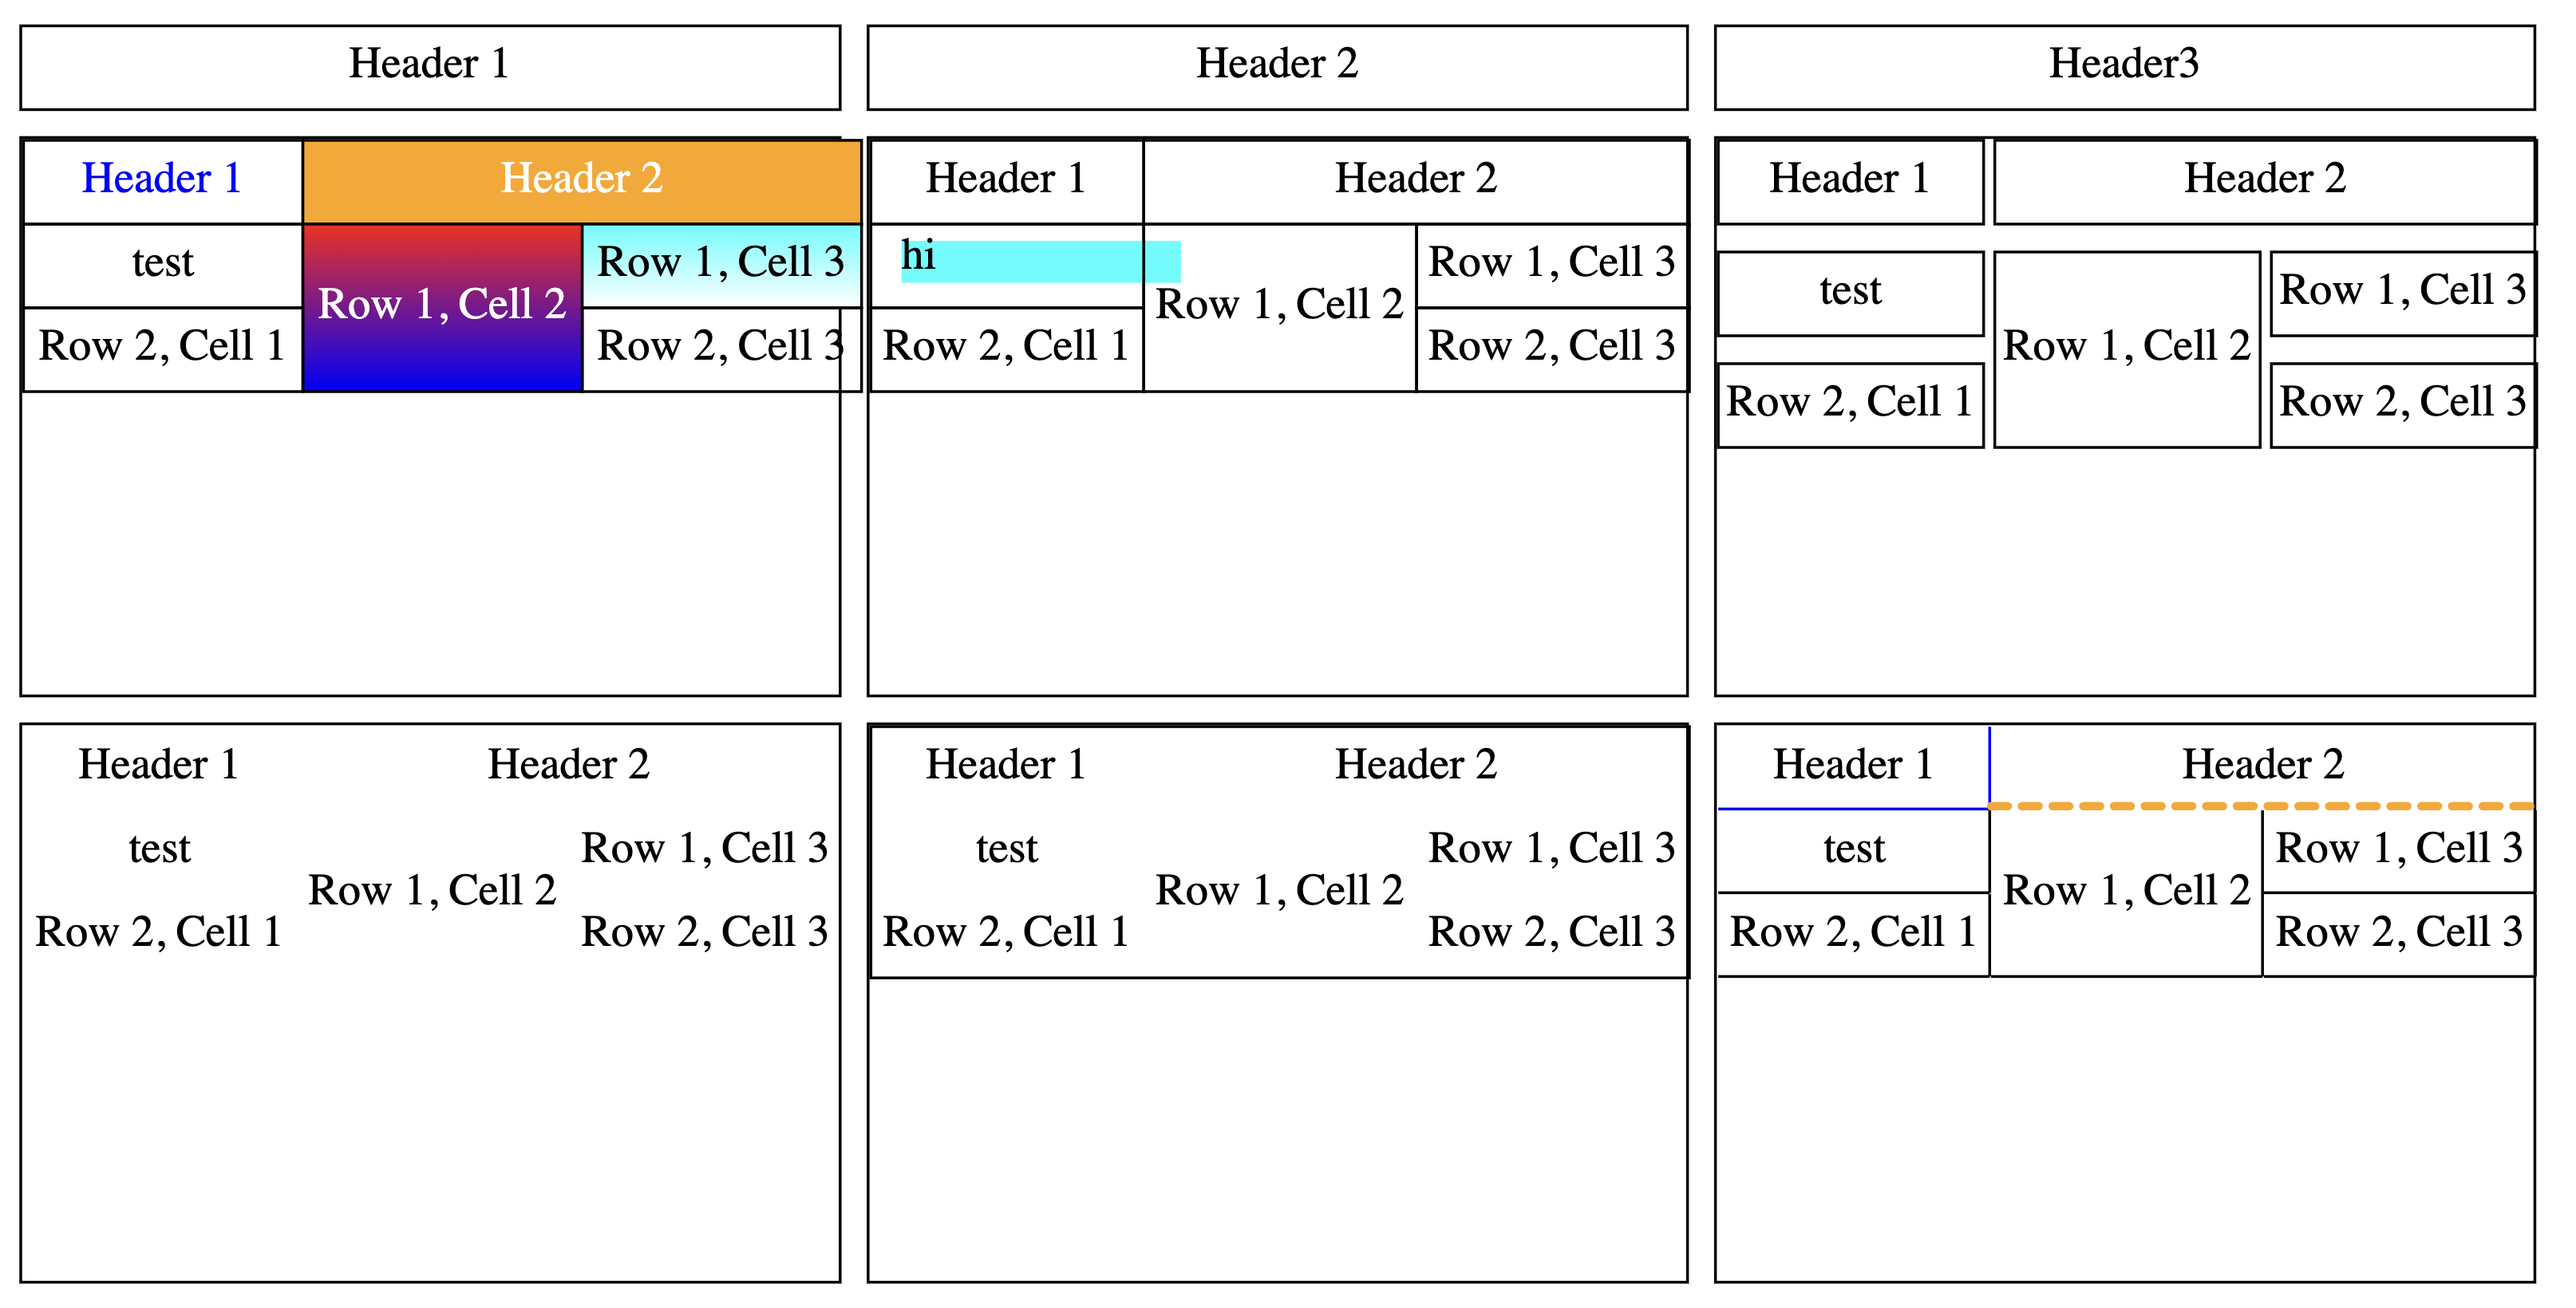
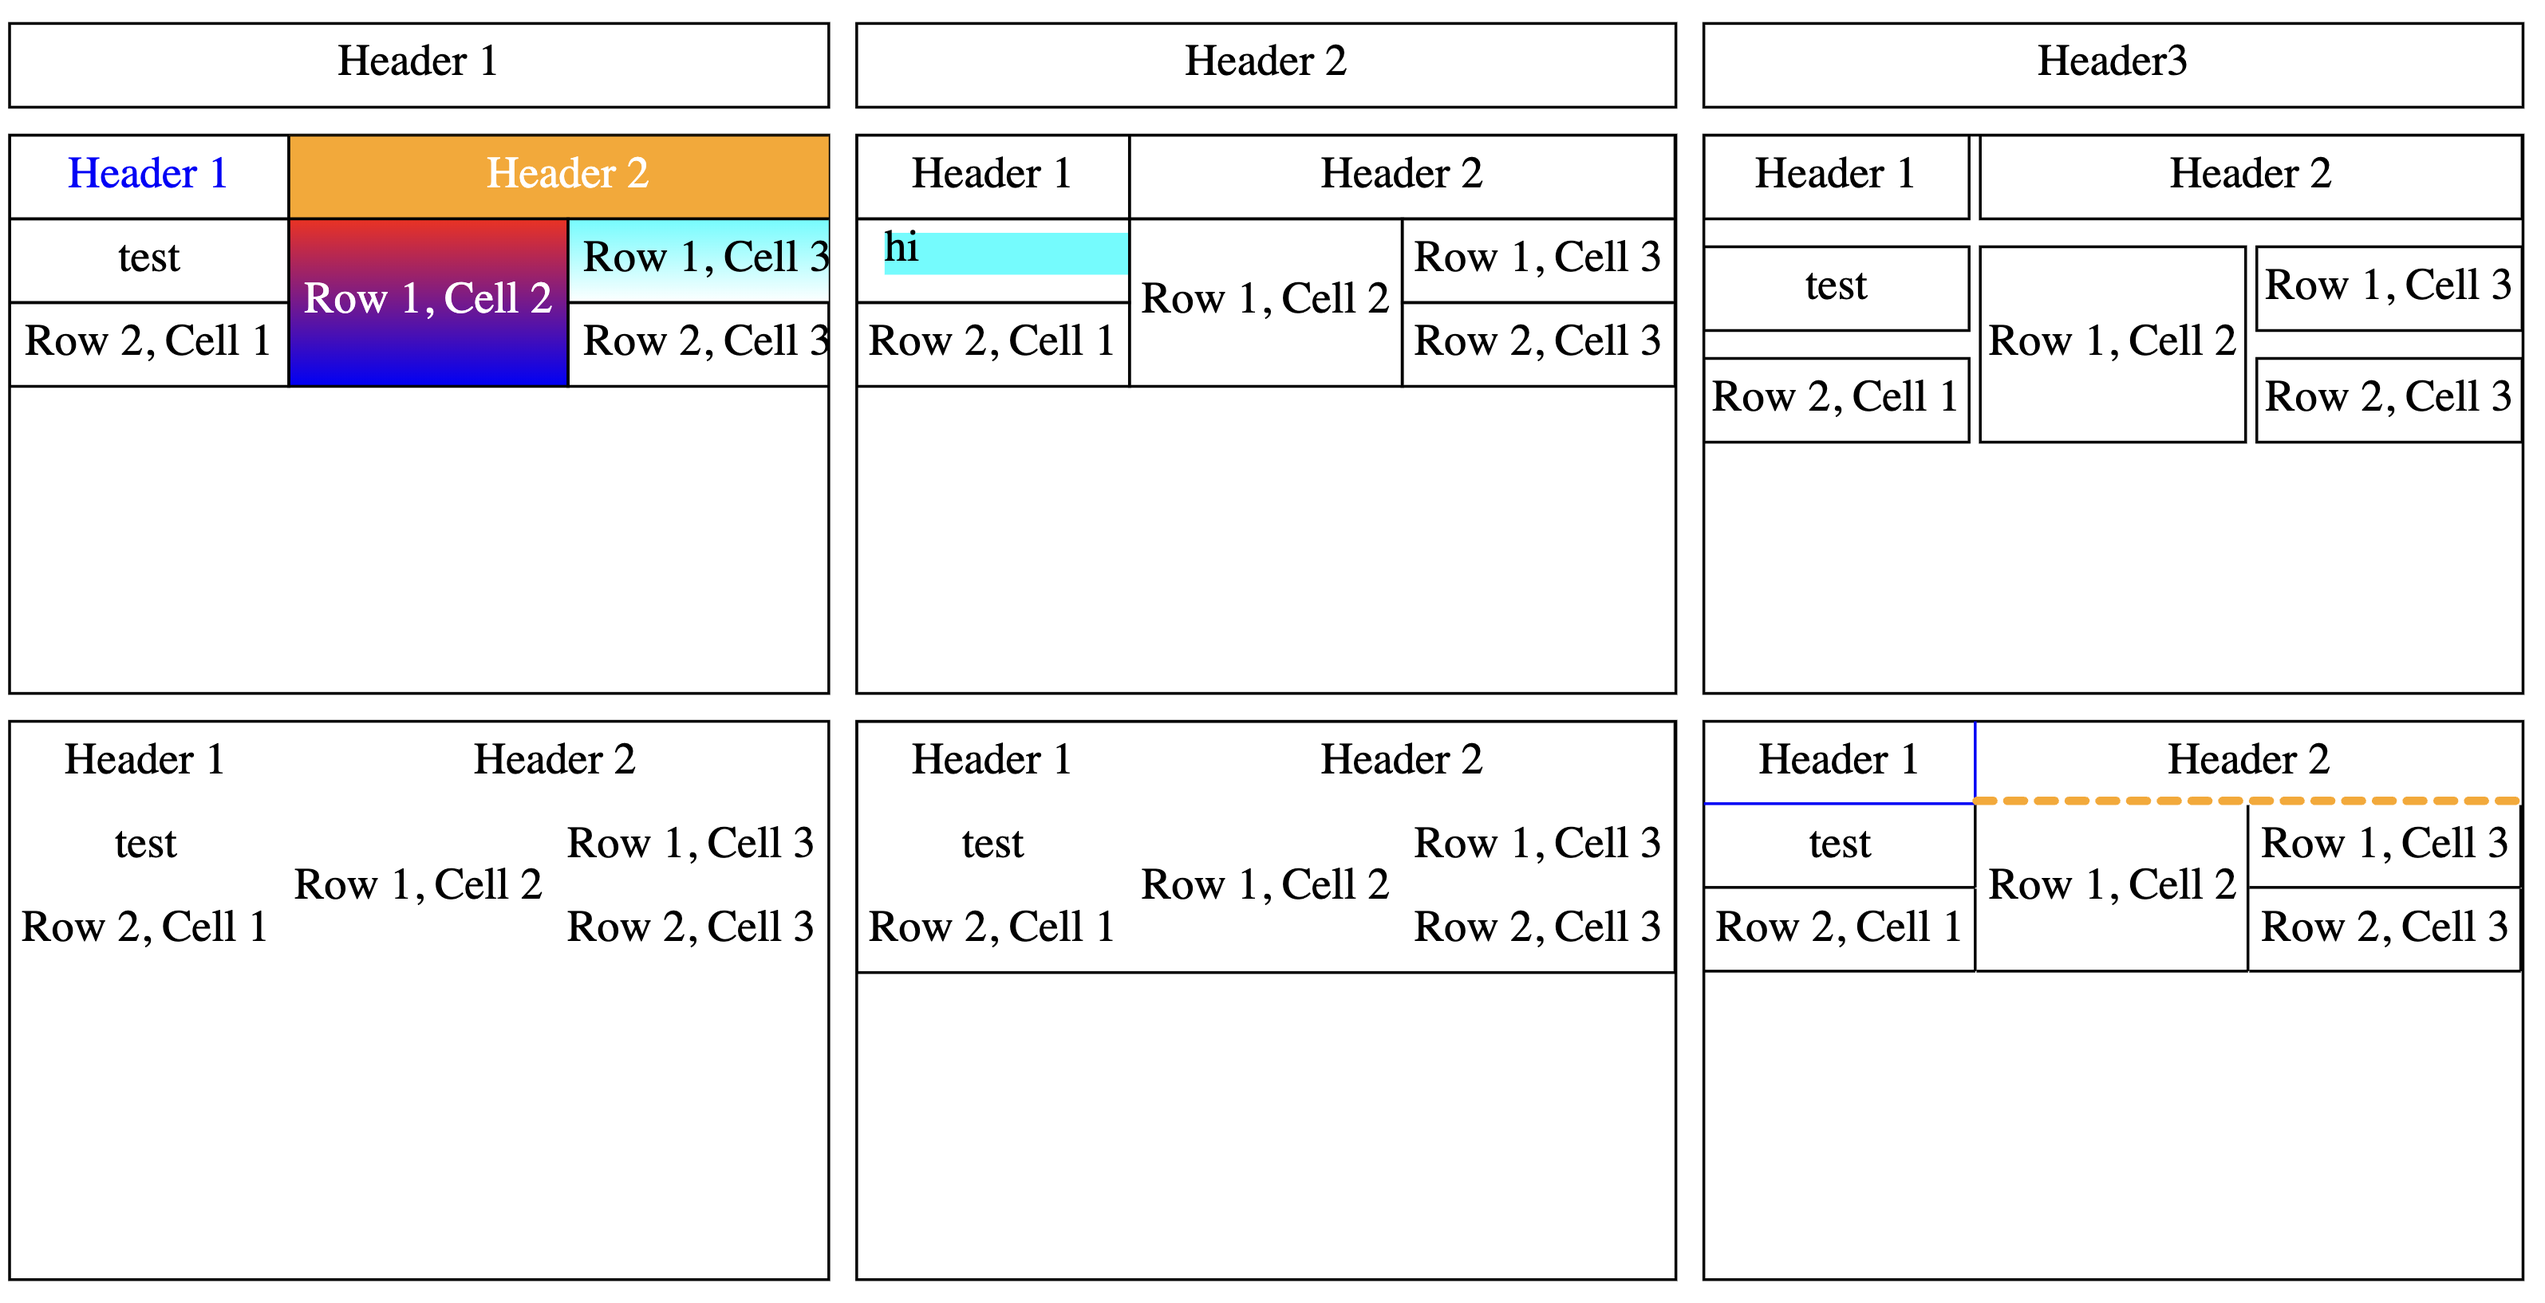
add more demo

diff --git a/packages/svg-table/src/ACell.tsx b/packages/svg-table/src/ACell.tsx
@@ -27,6 +27,7 @@ export const ACell = memo(
 			borderPatterns,
 			borderShapes,
 			paddings,
+			svgStyle,
 			textColor,
 			textStyle,
 		} = styleToUse;
@@ -36,7 +37,12 @@ export const ACell = memo(
 		const padBottom = getWid(paddings, 'bottom');
 
 		return (
-			<g transform={`translate(${x}, ${y})`} className='cell-wrapper'>
+			<g
+				transform={`translate(${x}, ${y})`}
+				className='cell-wrapper'
+				width={width}
+				height={height}
+			>
 				<FilledArea
 					width={width}
 					height={height}
@@ -46,23 +52,25 @@ export const ACell = memo(
 					borderPatterns={borderPatterns}
 					borderShapes={borderShapes}
 				/>
-				<g transform={`translate(${padLeft}, ${padTop})`}>
-					{typeof content === 'string' && (
+				<svg width={width} height={height} style={svgStyle}>
+					<g transform={`translate(${padLeft}, ${padTop})`}>
 						<g transform={`translate(-${padRight}, -${padBottom})`}>
-							<text
-								x={width / 2}
-								y={height / 2}
-								textAnchor='middle'
-								dominantBaseline='middle'
-								fill={textColor}
-								{...textStyle}
-							>
-								{content}
-							</text>
+							{typeof content === 'string' && (
+								<text
+									x={width / 2}
+									y={height / 2}
+									textAnchor='middle'
+									dominantBaseline='middle'
+									fill={textColor}
+									{...textStyle}
+								>
+									{content}
+								</text>
+							)}
+							{typeof content !== 'string' && content}
 						</g>
-					)}
-					{typeof content !== 'string' && content}
-				</g>
+					</g>
+				</svg>
 			</g>
 		);
 	}

diff --git a/apps/svg-table-demo/src/TableStyles.tsx b/apps/svg-table-demo/src/TableStyles.tsx
@@ -1,6 +1,6 @@
 import SVGTable, { TableProps } from 'svg-table';
 
-const Rect = () => {
+const Circle = () => {
 	return <ellipse cx={15} cy={15} rx={30} ry={30} fill='cyan' />;
 };
 
@@ -13,16 +13,9 @@ const TableStyles = ({ width = 500 }: { width?: number }) => {
 			bgColor: 'yellow',
 			height: 50,
 		},
-		defaultCellStyle: {
-			textColor: '#ff0000',
-			textStyle: {
-				textAnchor: 'start',
-				dominantBaseline: 'hanging',
-				x: 0,
-				y: 0,
-			},
-		},
+
 		style: {
+			// table's border customizations
 			rowGaps: 10,
 			colGaps: 10,
 			margins: [10, 10, 10, 10],
@@ -41,33 +34,13 @@ const TableStyles = ({ width = 500 }: { width?: number }) => {
 			{
 				cells: [
 					{
-						content: 'Header 1',
+						content: <Circle />,
 						style: {
-							bgColor: '#f0f0f0',
-							paddings: [10, 4, 0, 0],
-							textColor: 'blue',
+							svgStyle: {
+								overflow: 'visible', // override internal svg's style
+							},
 						},
 					},
-					{
-						content: 'Header 2',
-						colSpan: 2,
-						style: {
-							bgColor: '#cccccc',
-							borderColors: ['red', 'green', 'blue', 'purple'],
-							borderPatterns: [
-								[4, 0.1],
-								[2, 0.1],
-								[0.1, 3],
-								[0.1, 3],
-							],
-							borderShapes: ['butt', 'butt', 'round', 'square'],
-						},
-					},
-				],
-			},
-			{
-				cells: [
-					{ content: <Rect /> },
 					{ content: 'Row 1, Cell 2', rowSpan: 2 },
 					{ content: 'Row 1, Cell 3' },
 				],

diff --git a/packages/svg-table/src/calculateRows.ts b/packages/svg-table/src/calculateRows.ts
@@ -54,11 +54,11 @@ const getCellHeight = (
 
 const insertIgnoredCell = (row: CalculatedRowProps, colIndex: number) => {
 	row.cells = [
-		...row.cells.slice(0, colIndex),
+		...(row.cells.slice(0, colIndex) ?? []),
 		{
 			_ignored: true,
 		},
-		...row.cells.slice(colIndex),
+		...(row.cells.slice(colIndex) ?? []),
 	];
 };
 
@@ -124,10 +124,22 @@ export const calculateRows = (
 			if (cell.rowSpan) {
 				// find same index of the below rows and add an empty cell with _ignored: true attribute.
 				for (let i = 1; i < cell.rowSpan; i++) {
-					insertIgnoredCell(
-						calcRows[idx + i] as CalculatedRowProps,
-						idx
-					);
+					if (calcRows[ri + i]) {
+						insertIgnoredCell(
+							calcRows[ri + i] as CalculatedRowProps,
+							idx
+						);
+					} else {
+						console.error(
+							'row is not found at index: ' + (idx + i),
+							'your cell is:',
+							cell,
+							'your rows are',
+							calcRows,
+							'idx is',
+							idx
+						);
+					}
 				}
 			}
 			cell.width = cellWidth;

diff --git a/apps/svg-table-demo/src/main.tsx b/apps/svg-table-demo/src/main.tsx
@@ -2,7 +2,6 @@ import React from 'react';
 import ReactDOM from 'react-dom/client';
 import BasicDemo from './BasicDemo.tsx';
 import EmbeddedTable from './EmbeddedTable.tsx';
-import './main.css';
 import TextStyleOverride from './TextStyleOverride.tsx';
 import NoBorderTableDemo from './NoBorderTableDemo.tsx';
 import OnlyTableBolder from './OnlyTableBolder.tsx';
@@ -11,6 +10,7 @@ import TableBorderStyles from './TableBorderStyles.tsx';
 import BgColorAndTextColor from './BgColorAndTextColor.tsx';
 import Gaps from './Gaps.tsx';
 import TableStyles from './TableStyles.tsx';
+import './main.css';
 
 ReactDOM.createRoot(document.getElementById('root')!).render(
 	<React.StrictMode>

diff --git a/packages/svg-table/src/types.ts b/packages/svg-table/src/types.ts
@@ -1,4 +1,4 @@
-import { ReactNode, SVGAttributes } from 'react';
+import { HTMLAttributes, ReactNode, SVGAttributes } from 'react';
 
 export type Widths =
 	| [number, number] // top/bottom, left/right
@@ -40,6 +40,7 @@ export type CellStyle = {
 	paddings: Widths;
 	textColor: string;
 	textStyle?: TextStyle;
+	svgStyle?: HTMLAttributes<SVGSVGElement>['style'];
 } & Partial<BorderStyles>;
 
 export type CellProps = {
@@ -82,6 +83,7 @@ export type TableStyle = {
 	bgColor: string;
 	colGaps: number;
 	rowGaps: number;
+	svgStyle: HTMLAttributes<SVGSVGElement>['style'];
 } & Partial<BorderStyles>;
 
 export type TableProps = {

diff --git a/packages/svg-table/src/SVGTable.tsx b/packages/svg-table/src/SVGTable.tsx
@@ -28,8 +28,8 @@ const parsedTableStyle = (style?: Partial<TableStyle>): TableStyle => {
 		borderPatterns: undefined,
 		borderShapes: undefined,
 		borderColors: style?.borderWidths ? '#000' : undefined,
+		svgStyle: { overflow: 'visible' },
 		...style,
-		// borderColors: style?.borderColors ?? '#000',
 		margins: style?.margins ?? 0,
 	};
 };
@@ -139,7 +139,7 @@ export const SVGTable: React.FC<TableProps> = ({
 		<svg
 			width={width}
 			height={height}
-			style={{ overflow: 'visible' }}
+			style={tableStyle.svgStyle}
 			viewBox={`0 0 ${width} ${height}`}
 			className={`svg-table ${className ?? ''}`}
 		>

diff --git a/apps/svg-table-demo/README.md b/apps/svg-table-demo/README.md
@@ -578,3 +578,75 @@ export default TextStyleOverride;
 ```
 
 ![text style override](README.assets/text-style-override.png)
+
+## Play with styles even more
+
+you can set more advanced styles on your svg.
+
+```typescript
+import SVGTable, { TableProps } from 'svg-table';
+
+const Circle = () => {
+ return <ellipse cx={15} cy={15} rx={30} ry={30} fill='cyan' />;
+};
+
+const TableStyles = ({ width = 500 }: { width?: number }) => {
+ const tableProps: TableProps = {
+  columnWidths: [100, 300, 200],
+  width: width,
+
+  defaultRowStyle: {
+   bgColor: 'yellow',
+   height: 50,
+  },
+
+  style: {
+   // table's border customizations
+   rowGaps: 10,
+   colGaps: 10,
+   margins: [10, 10, 10, 10],
+   bgColor: 'lime',
+   borderWidths: [2, 2, 2, 2],
+   borderColors: ['red', 'green', 'blue', 'purple'],
+   borderPatterns: [
+    [4, 4],
+    [4, 6],
+    [0, 6],
+    [0, 6],
+   ],
+   borderShapes: ['butt', 'butt', 'round', 'square'],
+  },
+  rows: [
+   {
+    cells: [
+     {
+      content: <Circle />,
+      style: {
+       svgStyle: {
+        overflow: 'visible', // override internal svg's style
+       },
+      },
+     },
+     { content: 'Row 1, Cell 2', rowSpan: 2 },
+     { content: 'Row 1, Cell 3' },
+    ],
+   },
+   {
+    cells: [
+     { content: 'Row 2, Cell 1' },
+     { content: 'Row 2, Cell 3' },
+    ],
+   },
+  ],
+ };
+
+ return <SVGTable {...tableProps} />;
+};
+
+export default TableStyles;
+
+```
+
+by setting `overflow: visible` on the inner svg, we can make the content intentionally overflow.
+
+![text style override](README.assets/table-advanced-styles.png)
